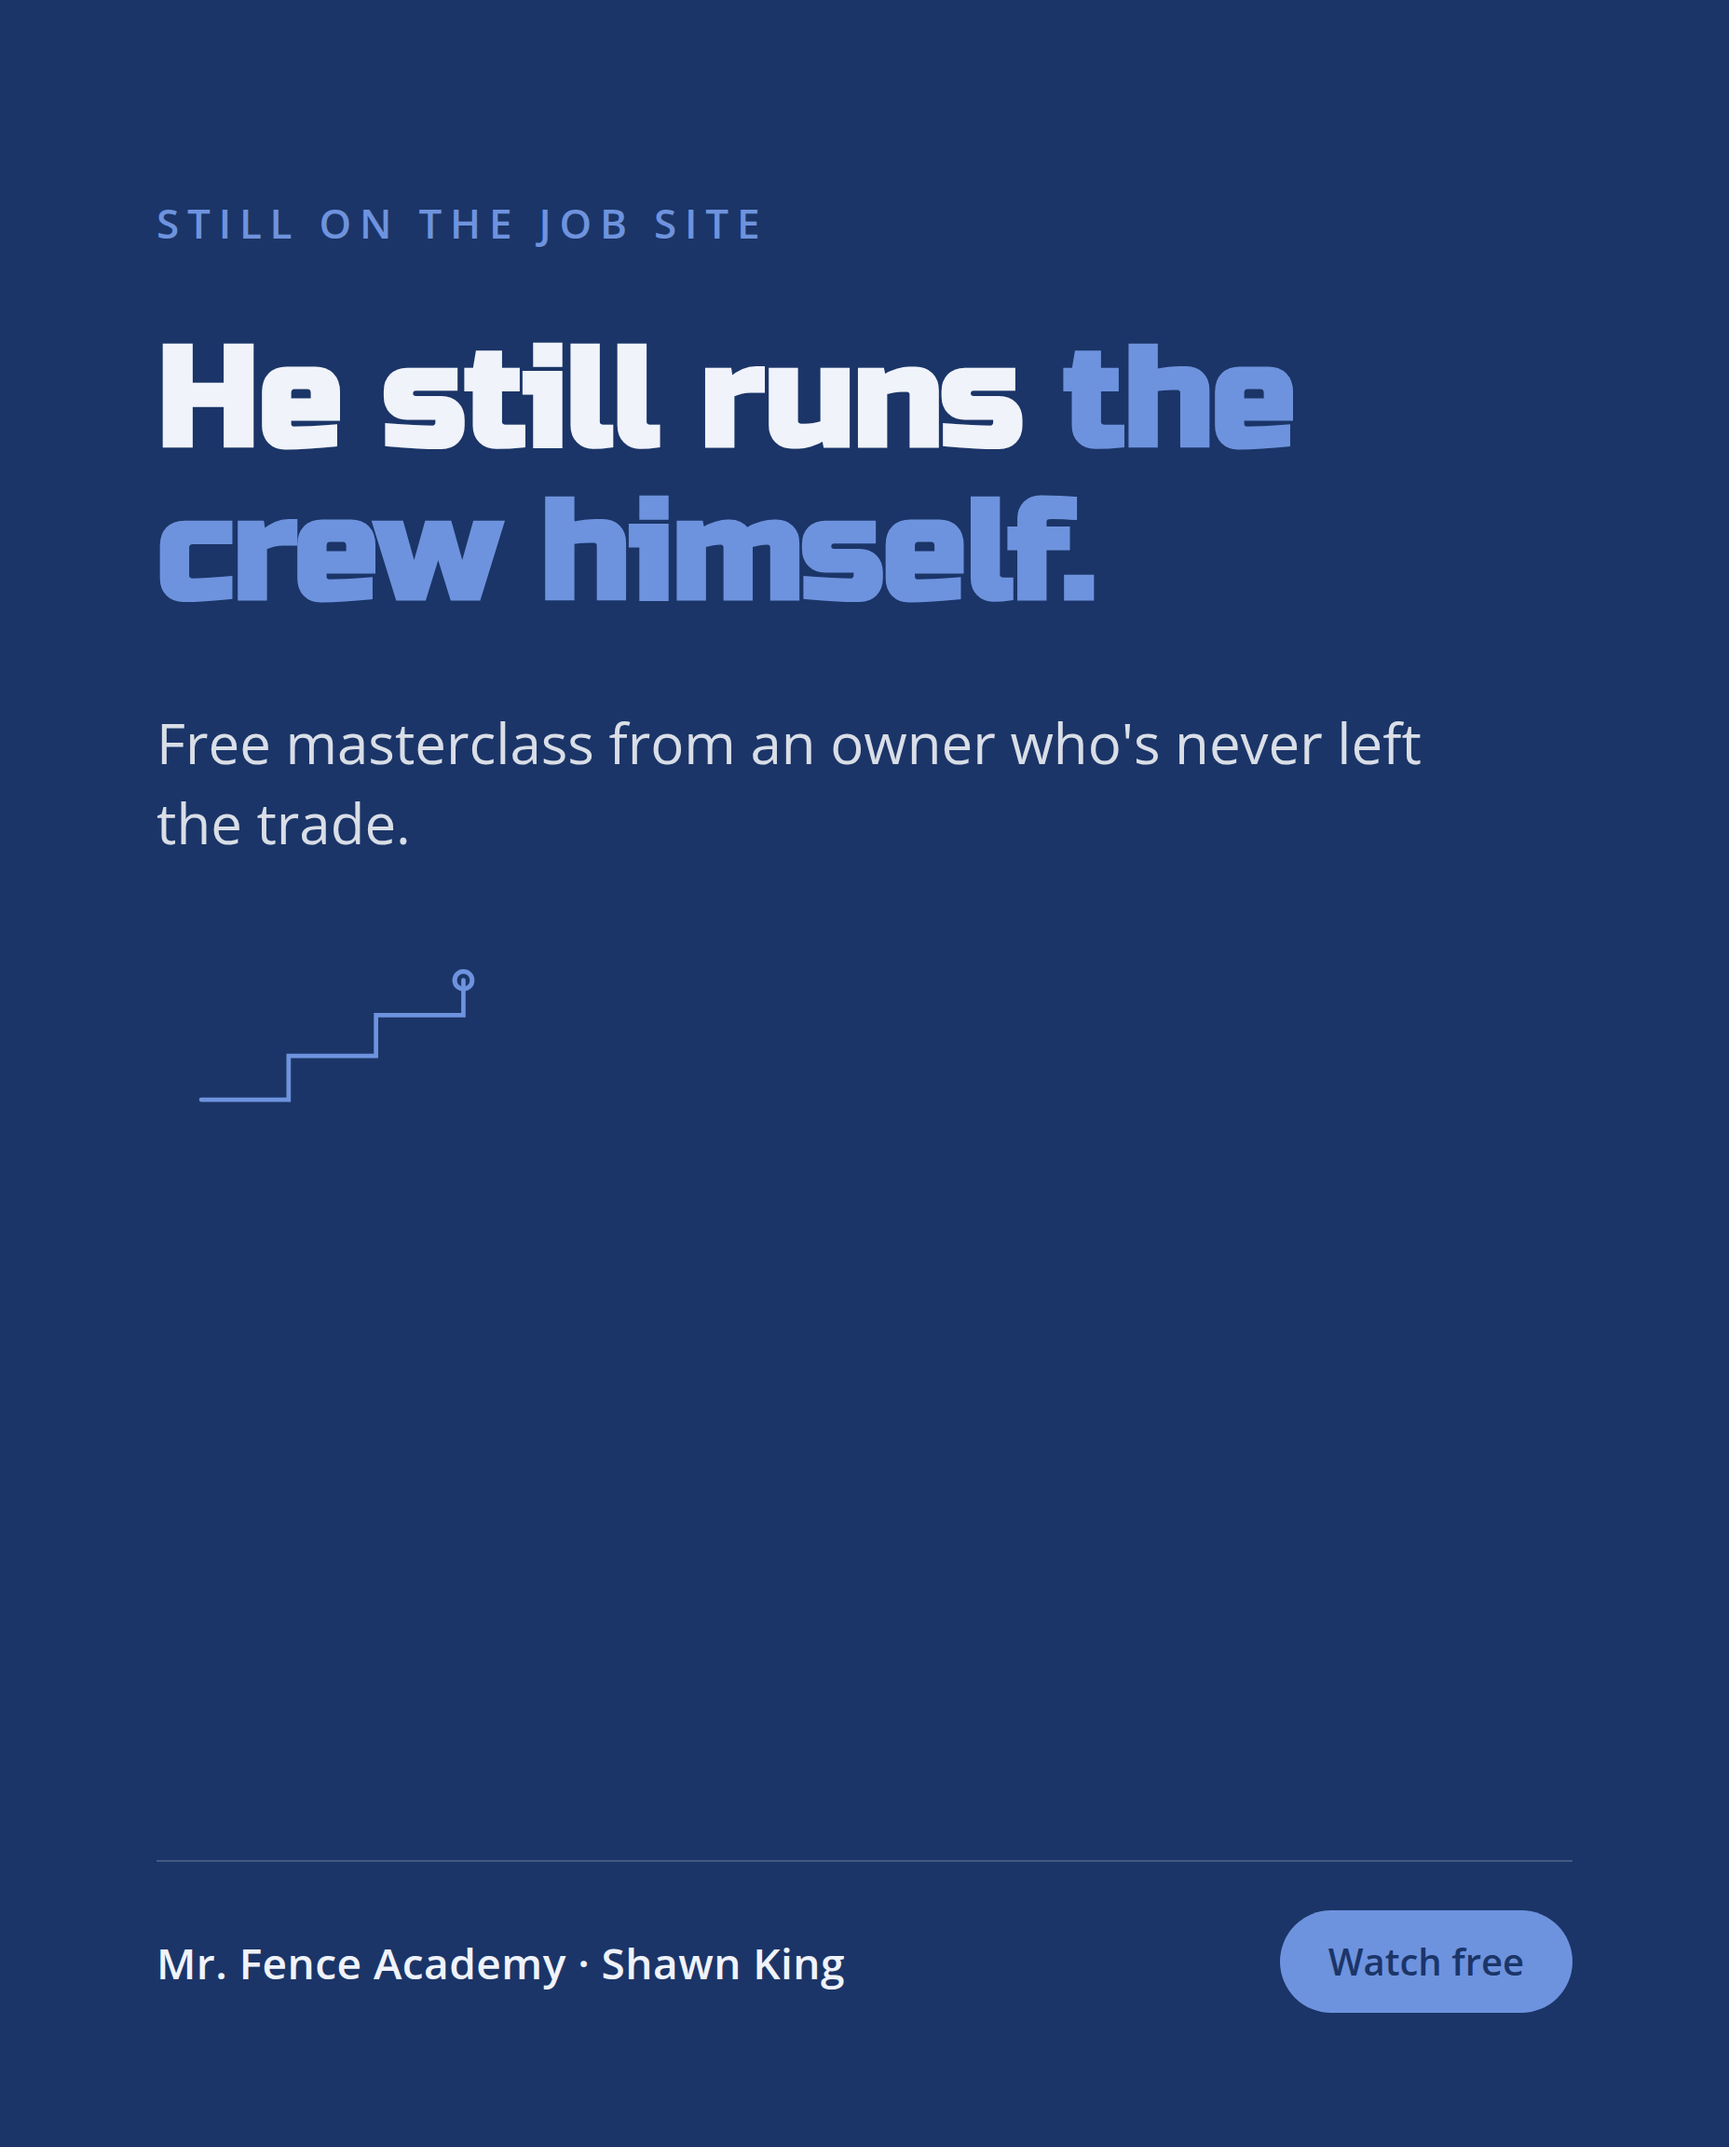
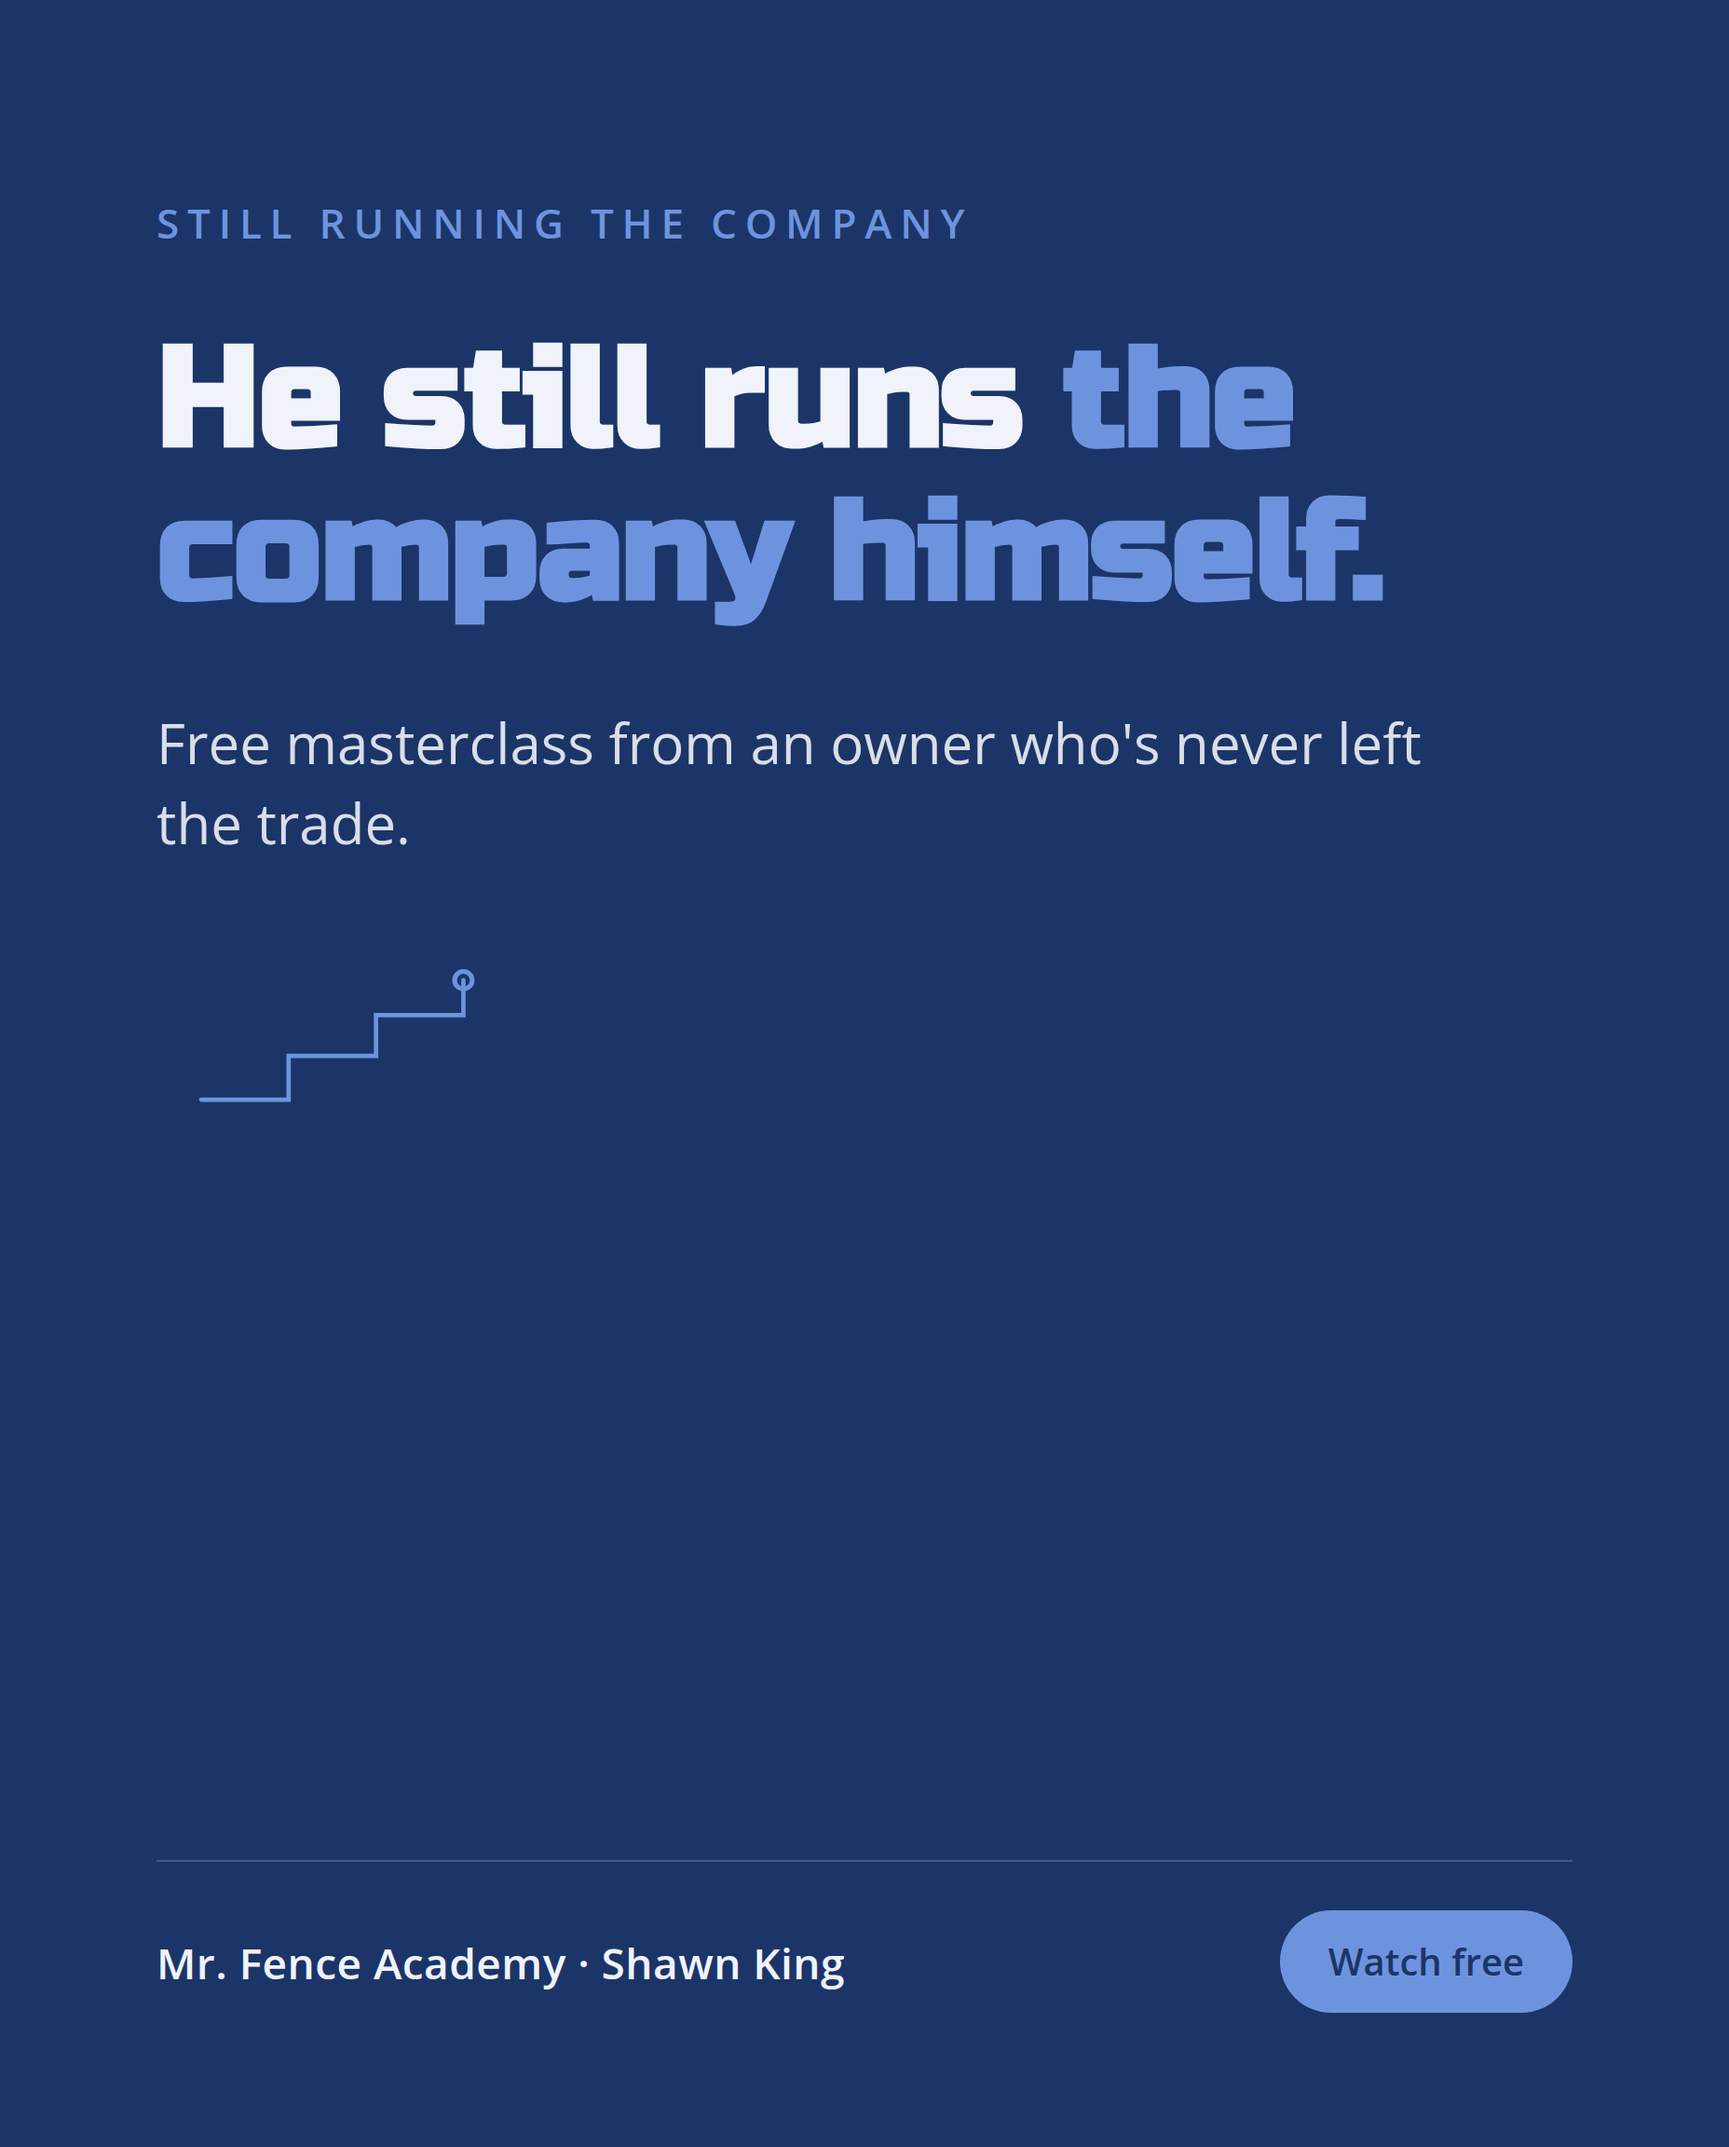
showcase: shawn-king

Changed region(s): [[0.1562, 0.2188, 0.8125, 0.3125], [0.1875, 0.0938, 0.5625, 0.125]]

diff --git a/shawn-king/deck.html b/shawn-king/deck.html
@@ -84,31 +84,31 @@
 
 <script>
 const S = [
- {t:'title',title:'The Team +1 Masterclass',sub:'For fence company owners, taught by an owner who still runs the crew.',brand:true,arc:'title'},
- {t:'normal',k:'Who this is for',title:'You are the best installer in the company. That is the problem.',body:'You run a fence company, and every hard quote, every tricky gate, every new hire still routes through you. Your crew is good. It still cannot run a full week without you on a job site or on the phone.'},
+ {t:'title',title:'The Team +1 Masterclass',sub:'For fence company owners, taught by an owner who still runs the company today.',brand:true,arc:'title'},
+ {t:'normal',k:'Who this is for',title:'You are the best installer in the company. That is the problem.',body:'You run a fence company, and a lot of hard quotes, tricky gates, and new hires still route through you. A crew like that is good. It still struggles to run a full week without you on the phone.'},
  {t:'dark',title:'You have to improve yourself before you can help others.'},
 
  {t:'section',idx:'Part One',title:'Why Skilled Owners Still Run Out of Gas'},
  {t:'normal',k:'The invisible cost',title:'The most skilled person in the company is often the most exhausted.',body:'That is exactly why growth stalls at the owner\'s own energy, not the crew\'s skill. The business runs beautifully as long as the owner shows up wired and ready, and it cannot run any faster than one tired person can push it.'},
  {t:'normal',k:'The trap nobody names',title:'Owners will fix a crew\'s schedule before they will fix their own.',body:'You will rebuild a production schedule, retrain a salesman, rewrite a bid sheet, all before you ever ask whether you personally are set up to lead any of it. The team problem is almost always an owner problem wearing a team costume.'},
- {t:'dark',title:'Take care of yourself. Take care of your team. Then plus one more.'},
+ {t:'dark',title:'His own words: you have to improve yourself before you can help others.'},
 
  {t:'section',idx:'Part Two',title:'The Rhythm: Commit, Learn, Lead'},
- {t:'normal',k:'Commit',title:'Every real result starts with committing to the process, not just liking the idea.',body:'Committing means working the process the way it is taught, on the weeks it is inconvenient, not just the weeks it is easy to be excited.'},
- {t:'normal',k:'Learn',title:'Training only changes anything if you actually show up and use it.',body:'A video watched once and a system installed and run every week are not the same thing. Learning here means active participation, not passive consumption.'},
- {t:'normal',k:'Lead',title:'The job is not done until you can teach someone else to run it.',body:'Leading is the step most owners skip. It means implementing the system in your own company, then handing pieces of it to your team until it runs without you standing over it.'},
- {t:'dark',title:'Commit. Learn. Lead. Skip a step and the other two do not hold.'},
+ {t:'normal',k:'Commit',title:'Every real result starts with committing to the process, not just liking the idea.',body:'Committing means working the process the way it is taught, on the weeks it feels inconvenient, not just the weeks it is easy to be excited.'},
+ {t:'normal',k:'Learn',title:'Training only works if you actually show up and put it to use.',body:'A video watched once and a system installed and run every week are not the same thing. Learning here means active participation, not passive consumption.'},
+ {t:'normal',k:'Lead',title:'The job is not done until you can teach someone else to run it.',body:'Leading is the step most owners skip. It means implementing the system in your own company, then handing pieces of it to your team so it runs without you standing over it.'},
+ {t:'dark',title:'Commit. Learn. Lead. Skip a step and the other two fall apart.'},
 
  {t:'section',idx:'Part Three',title:'What Running On The Rhythm Actually Looks Like'},
- {t:'normal',k:'The Financial Matrix',title:'Know exactly which number is actually holding the company back.',body:'Most owners can tell you revenue. Few can tell you which single number in the business is the real constraint. The Financial Matrix names it instead of guessing at it.'},
- {t:'normal',k:'Fast Fives SOPs',title:'A production system that runs whether or not you are on the job site.',body:'Fast Fives turns "how we do it" from something living in your head into a documented, repeatable standard your crew can run without a phone call to you.'},
- {t:'normal',k:'Solution-Based Sales',title:'Sell fence on fit and value, not on discounting to close the job.',body:'A crew that can quote confidently without shaving the price is a crew that protects the margin the Financial Matrix is trying to grow in the first place.'},
+ {t:'normal',k:'The Financial Matrix',title:'Know which number is actually holding the company back.',body:'Most owners can tell you revenue. Few can tell you which single number in the business is the real constraint. The Financial Matrix is built to name it instead of guessing at it.'},
+ {t:'normal',k:'Fast Fives SOPs',title:'One documented way to run a job, not just what is in your head.',body:'Fast Fives and the Production Spreadsheet turn "how we do it" into a written, repeatable standard, so a crew is not reinventing the process on every job.'},
+ {t:'normal',k:'Solution-Based Sales',title:'Sell fence on fit and value, not on discounting to close the job.',body:'A salesperson who can quote confidently without shaving the price protects the same margin the Financial Matrix is trying to grow in the first place.'},
 
- {t:'section',idx:'Why Shawn King',title:'Still On The Job Site, Not Retired Into Consulting'},
+ {t:'section',idx:'Why Shawn King',title:'Still Running The Company, Not Retired Into Consulting'},
  {t:'normal',k:'The credibility',title:'He was leading an install crew before he was old enough to drive.',body:'Shawn started in his family\'s fence business at 8, led a crew as a teenager, and was one of the youngest Certified Fence Professionals in AFA history by 22. He still runs Mr. Fence, an active fence company, alongside coaching the trade.',brand:true},
 
  {t:'section',idx:'Your Next Step',title:'Find Your Rhythm'},
- {t:'normal',k:'Book a Consultation',title:'A straight conversation about where your company actually stands today.',body:'No pitch deck, no obligation. A conversation about your business from someone who is still running crews and closing jobs himself, not someone teaching from memory.'},
+ {t:'normal',k:'Book a Consultation',title:'A straight conversation about where your company actually stands today.',body:'No obligation, no upsell pressure. A conversation about your business with a coach who still runs a fence company himself, not someone teaching from memory.'},
  {t:'cta',title:'Ready to commit, learn, and lead?',chips:['Book a Consultation'],disc:'Educational content for fence company owners. No income or business result is guaranteed. Results vary by business, market, and execution.'},
 ];
 

diff --git a/shawn-king/index.html b/shawn-king/index.html
@@ -92,7 +92,7 @@
   <div class="section">
     <div class="section-label">What the paid engine could produce</div>
     <h2>The numbers</h2>
-    <p>Your pricing is public, so this uses it directly: Visibility starts at $718 a month, and Clarity, your most popular tier, is $1,585. Estimates from coaching businesses running paid traffic into a masterclass, scoped to a fence-owner audience. Actuals would calibrate to your real numbers after the first month.</p>
+    <p>Your pricing is public, so this uses it directly: Visibility starts at $718 a month, and Clarity, your most popular tier, is $1,585. The rates below are estimates from coaching businesses running paid traffic into a masterclass, scoped to a fence-owner audience, and the real numbers would sharpen after the first month live.</p>
     <table>
       <thead>
         <tr><th>Metric</th><th>Conservative</th><th>Moderate</th></tr>
@@ -104,17 +104,17 @@
         <tr><td>Show rate</td><td>30%</td><td>35%</td></tr>
         <tr><td>Masterclass viewers</td><td>~10</td><td>~18</td></tr>
         <tr><td>Book Consultation rate</td><td>8%</td><td>10%</td></tr>
-        <tr><td>New members / month</td><td>~1</td><td>~2</td></tr>
-        <tr class="hl"><td>New revenue added each month</td><td>~$718</td><td>~$1,436</td></tr>
+        <tr><td>New members / month</td><td>under 1</td><td>~2</td></tr>
+        <tr class="hl"><td>New revenue added each month</td><td>~$574</td><td>~$1,292</td></tr>
       </tbody>
     </table>
-    <p class="fn">The revenue row uses your own published Visibility floor price ($718/mo) throughout, never a placeholder benchmark. Members who land in Clarity, Command, or Mastery push this number well past what the table shows, but the table intentionally stays at the floor. Your Book Consultation flow and enrollment process stay exactly the same; the masterclass just adds a second way in.</p>
+    <p class="fn">The revenue row uses your own published Visibility floor price ($718/mo) throughout, never a placeholder benchmark, multiplied straight through against the viewer and booking rates above rather than rounded up. Members who land in Clarity, Command, or Mastery push this number well past what the table shows. Your Book Consultation flow and enrollment process stay exactly the same; the masterclass just adds a second way in.</p>
   </div>
 
   <div class="section">
     <div class="section-label">Who is buying the fence owner's attention</div>
     <h2>The lane, checked</h2>
-    <p>What I checked in the Meta ad auction around fencing and fence-company coaching specifically, checked live this week.</p>
+    <p>The Meta ad auction around fencing and fence-company coaching specifically, checked live this week.</p>
     <table>
       <thead>
         <tr><th>Search</th><th>Result</th></tr>
